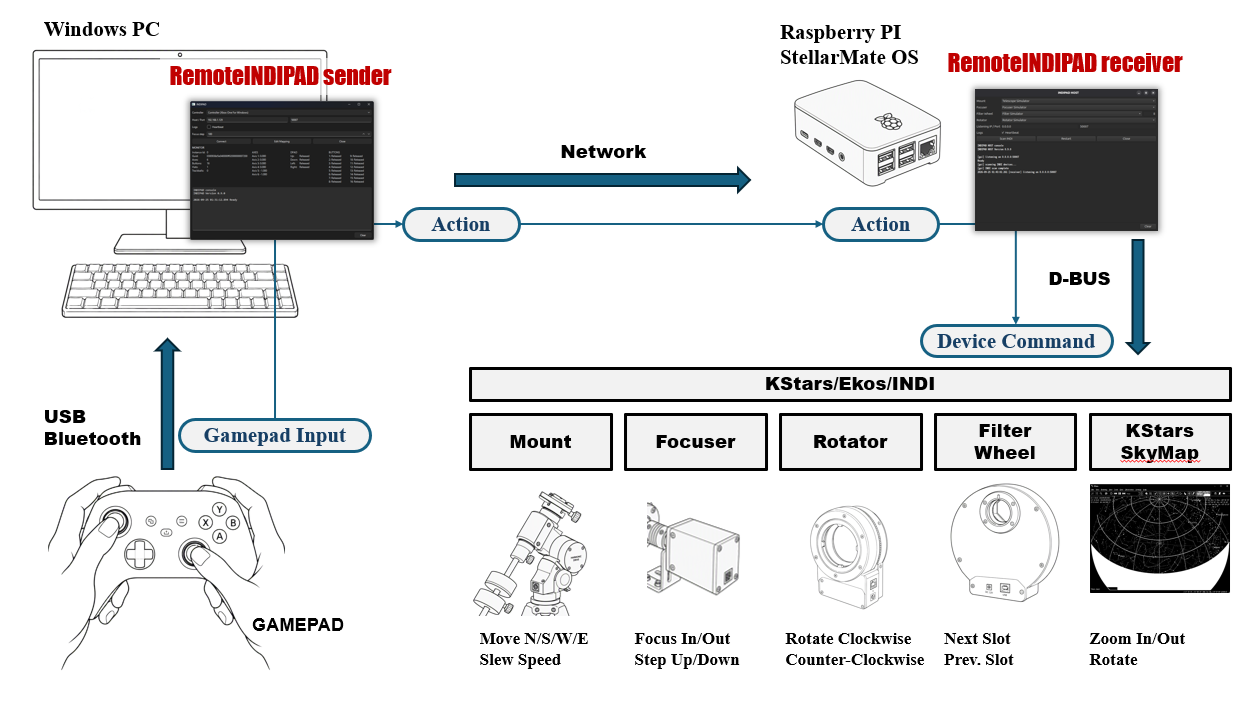
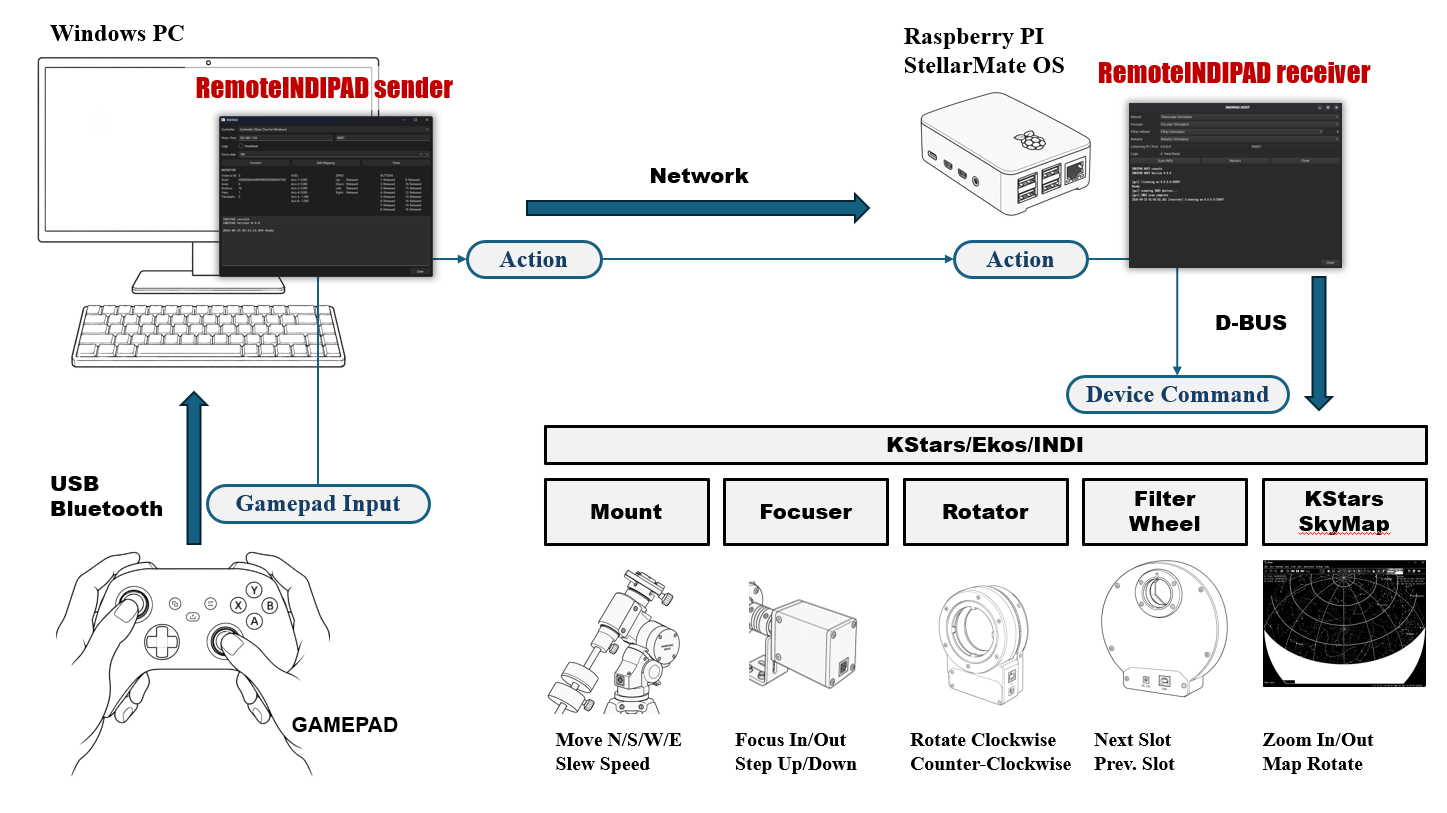
docs: update README for clarity and add user interface images

diff --git a/README.ja.md b/README.ja.md
@@ -36,7 +36,7 @@ Windows に接続したゲームパッドの入力を、LAN 経由で Linux（St
 
 ### KStars
 
-- SkyMap: Zoom In、Zoom Out、視野回転
+- SkyMap: Zoom In、Zoom Out、マップの回転
 
 ### INDI
 
@@ -47,8 +47,8 @@ Windows に接続したゲームパッドの入力を、LAN 経由で Linux（St
 
 ## 配布
 
-- 配布形態は二種類です。
-- 一つは実行ファイル形式、もう一つはスクリプト形式です。
+- 配布形態は二種類あります。
+- 一つは実行ファイル形式、もう一つはスクリプト形式（GitHubのリポジトリ）です。
 - いずれか一方をご利用ください。
 
 ## 実行ファイル形式
@@ -71,7 +71,7 @@ Windows に接続したゲームパッドの入力を、LAN 経由で Linux（St
 
 1. StellarMate OS で KStars を起動し Ekos Profile を Start する。Mount を使用する場合は Unpark しておく。
 1. StellarMate OS で `remote_indipad_receiver` を起動する。
-1. Mount / Focuser / Filter Wheel / Rotator のドロップダウンリストに Start 済みの Ekos Profile のデバイスが記入される。同一種類のデバイスが複数接続されている場合はドロップダウンリストから手動選択する。
+1. Mount / Focuser / Filter Wheel / Rotator のドロップダウンリストに Start 済みの Ekos Profile のデバイス名が表示される。同一種類のデバイスが複数接続されている場合はドロップダウンリストから手動選択する。
 1. Windows PC に GAMEPAD を接続する。
 1. Windows で `remote_indipad_sender.exe` を起動する。
 1. `[Controller]` で使用する GAMEPAD を選択し `[Edit Mapping]` ボタン INDIPAD Mapping Editor を開き DPAD/Buttons/Axes にKStars/INDI の操作をマッピングする。マッピングを終えたら `[Close]`で INDIPAD Mapping Editor を閉じる。
@@ -80,9 +80,9 @@ Windows に接続したゲームパッドの入力を、LAN 経由で Linux（St
 
 > ⚠最初は控えめな操作で動作を確認してください。特にマウントやローテーターが異常な動作をする場合は機材が損傷する恐れがあります。いつでも機材を停止できるように心がけてください。
 
-## スクリプト形式
+## スクリプト形式（GitHubのレポジトリ）
 
-スクリプト形式は RemoteINDIPAD の開発用の環境です。
+- スクリプト形式は RemoteINDIPAD の開発用のリポジトリです。
 
 ### Requirements
 
@@ -143,6 +143,52 @@ python remote_indipad_sender.py
 ```bash
 python remote_indipad_receiver.py
 ```
+
+## ユーザーインターフェース
+
+### RemoteINDIPAD sender
+
+![RemoteINDIPAD Sender](images/RemoteINDIPAD_sender.png)
+
+| 項目 | 説明 |
+| - | - |
+| Controller | 使用するGAMEPADを選択する。 |
+| Host / Port | 接続先の StellarMate OS の IP アドレスと RemoteINDIPAD receiver で設定されたポート番号（デフォルトは50007） |
+| Logs - Heartbeat | 送信するHeartbeatを Console に表示する。 |
+| Focus step | フォーカスIN/OUT のステップ数 |
+| Connect / Disconnect | RemoteINDIPAD receiver と接続または切断する。 |
+| Edit Mapping | INDIPAD Mapping Editor を開く |
+| Close | RemoteINDIPAD sender を閉じる |
+| MONITOR | GAMEPAD の情報や、軸/DPAD/ボタン の現在の状態を表示する。 |
+| INDIPAD console | 操作や通信の状態を表示する。 |
+| Clear | コンソールをクリアする。 |
+
+### RemoteINDIPAD sender- INDIPAD Mapping Editor
+
+- DPAD/ボタン/軸に抽象化されたActionを割り当てる。
+- GAMEPADの操作をすると該当するリストがハイライトする。
+- 軸は-1から1の小数値を返すが、デフォルトで-0.8から0.8を基準に -1, 0, 1 に正規化される。
+- 軸はデフォルトで -1, 0, 1 のいずれかの位置にある。XBox コントローラーのトリガーはデフォルト状態で -1 にあるので注意が必要。
+- GAMEPADのDPAD/ボタン/軸は、物理的に存在する数と、GAMEPADのドライバーが返す数が異なる場合がある。
+
+![INDIPAD Mapping Editor](images/INDIPADMappingEditor.png)
+
+### RemoteINDIPAD receiver
+
+![RemoteINDIPAD Receiver](images/RemoteINDIPAD_receiver.png)
+
+| 項目 | 説明 |
+| - | - |
+| Mount | 利用可能な MOUNT の INDIドライバー名。複数ある場合はリストから選択する。 |
+| Focuser | 利用可能な Focuser の INDIドライバー名。複数ある場合はリストから選択する。 |
+| Filter Wheel | 利用可能な Filter Wheel の INDIドライバー名。複数ある場合はリストから選択する。INDIドライバー名の後ろの数値は Filter Wheel のスロット数 |
+| Rotator | 利用可能な Rotator の INDIドライバー名。複数ある場合はリストから選択する。 |
+| Listening IP / Port | 接続用の Network Interfaceの IP アドレスとポート番号。IPアドレスは0.0.0.0がデフォルトですべてのNetwork Interfaceを使用する。ポート番号のデフォルトは50007。 |
+| Scan INDI | 利用可能なINDIドライバーをスキャンし各ドライバーのリストに設定する。 |
+| Restart | 接続待ちの再スタート。IP / Port を変更した場合に使用する。 |
+| Close | RemoteINDIPAD receiver を閉じる |
+| INDIPAD console | 操作や通信の状態を表示する。 |
+| Clear | コンソールをクリアする。 |
 
 ## License
 

diff --git a/README.md b/README.md
@@ -36,7 +36,7 @@ A tool that transmits input from a gamepad connected to Windows over a LAN to KS
 
 ### KStars
 
-- SkyMap: Zoom in, zoom out, and rotate the field of view
+- SkyMap: Zoom in, zoom out, and rotate the map
 
 ### INDI
 
@@ -71,7 +71,7 @@ Download `RemoteINDIPAD-windows-x64.zip` for Windows and `RemoteINDIPAD-linux-aa
 
 1. Start KStars on StellarMate OS and start the Ekos Profile. If you are using a mount, unpark it first.
 1. Start `remote_indipad_receiver` on StellarMate OS.
-1. The devices from the started Ekos Profile are listed in the Mount / Focuser / Filter Wheel / Rotator dropdown lists. If multiple devices of the same type are connected, select one manually from the appropriate dropdown list.
+1. The device names from the started Ekos Profile are displayed in the Mount / Focuser / Filter Wheel / Rotator dropdown lists. If multiple devices of the same type are connected, select one manually from the appropriate dropdown list.
 1. Connect the GAMEPAD to the Windows PC.
 1. Start `remote_indipad_sender.exe` on Windows.
 1. Select the GAMEPAD to use in `[Controller]`, then click `[Edit Mapping]` to open the INDIPAD Mapping Editor. Map the DPAD / Buttons / Axes to KStars / INDI operations. When mapping is complete, close the INDIPAD Mapping Editor with `[Close]`.
@@ -80,9 +80,9 @@ Download `RemoteINDIPAD-windows-x64.zip` for Windows and `RemoteINDIPAD-linux-aa
 
 > ⚠ Start with conservative movements and verify operation first. In particular, abnormal behavior of a mount or rotator may damage the equipment. Make sure you can stop the equipment at any time.
 
-## Script Format
+## Script Format (GitHub Repository)
 
-The script format is the development environment for RemoteINDIPAD.
+- The script format is the development repository for RemoteINDIPAD.
 
 ### Requirements
 
@@ -143,6 +143,52 @@ python remote_indipad_sender.py
 ```bash
 python remote_indipad_receiver.py
 ```
+
+## User Interface
+
+### RemoteINDIPAD sender
+
+![RemoteINDIPAD Sender](images/RemoteINDIPAD_sender.png)
+
+| Item | Description |
+| - | - |
+| Controller | Select the GAMEPAD to use. |
+| Host / Port | The IP address of StellarMate OS and the port configured for the RemoteINDIPAD receiver (default: 50007). |
+| Logs - Heartbeat | Display transmitted heartbeats in the console. |
+| Focus step | The step size for focus in/out operations. |
+| Connect / Disconnect | Connect to or disconnect from the RemoteINDIPAD receiver. |
+| Edit Mapping | Open the INDIPAD Mapping Editor. |
+| Close | Close RemoteINDIPAD sender. |
+| MONITOR | Display GAMEPAD information and the current axis, DPAD, and button states. |
+| INDIPAD console | Display operation and communication status. |
+| Clear | Clear the console. |
+
+### RemoteINDIPAD sender - INDIPAD Mapping Editor
+
+- Assign abstract actions to the DPAD, buttons, and axes.
+- The corresponding list is highlighted when the GAMEPAD is operated.
+- Axes return decimal values from -1 to 1 and are normalized to -1, 0, or 1 based on the default -0.8 to 0.8 thresholds.
+- Axes are at one of -1, 0, or 1 by default. Note that the triggers on Xbox controllers are at -1 in their default state.
+- The physical number of GAMEPAD DPAD inputs, buttons, and axes may differ from the number reported by the GAMEPAD driver.
+
+![INDIPAD Mapping Editor](images/INDIPADMappingEditor.png)
+
+### RemoteINDIPAD receiver
+
+![RemoteINDIPAD Receiver](images/RemoteINDIPAD_receiver.png)
+
+| Item | Description |
+| - | - |
+| Mount | The name of an available MOUNT INDI driver. Select one from the list when multiple drivers are available. |
+| Focuser | The name of an available focuser INDI driver. Select one from the list when multiple drivers are available. |
+| Filter Wheel | The name of an available filter wheel INDI driver. Select one from the list when multiple drivers are available. The number after the INDI driver name is the number of filter wheel slots. |
+| Rotator | The name of an available rotator INDI driver. Select one from the list when multiple drivers are available. |
+| Listening IP / Port | The IP address and port of the network interface used for connections. The default IP address is 0.0.0.0, which uses all network interfaces. The default port is 50007. |
+| Scan INDI | Scan for available INDI drivers and populate each driver list. |
+| Restart | Restart the listener. Use this after changing the IP address or port. |
+| Close | Close RemoteINDIPAD receiver. |
+| INDIPAD console | Display operation and communication status. |
+| Clear | Clear the console. |
 
 ## License
 
